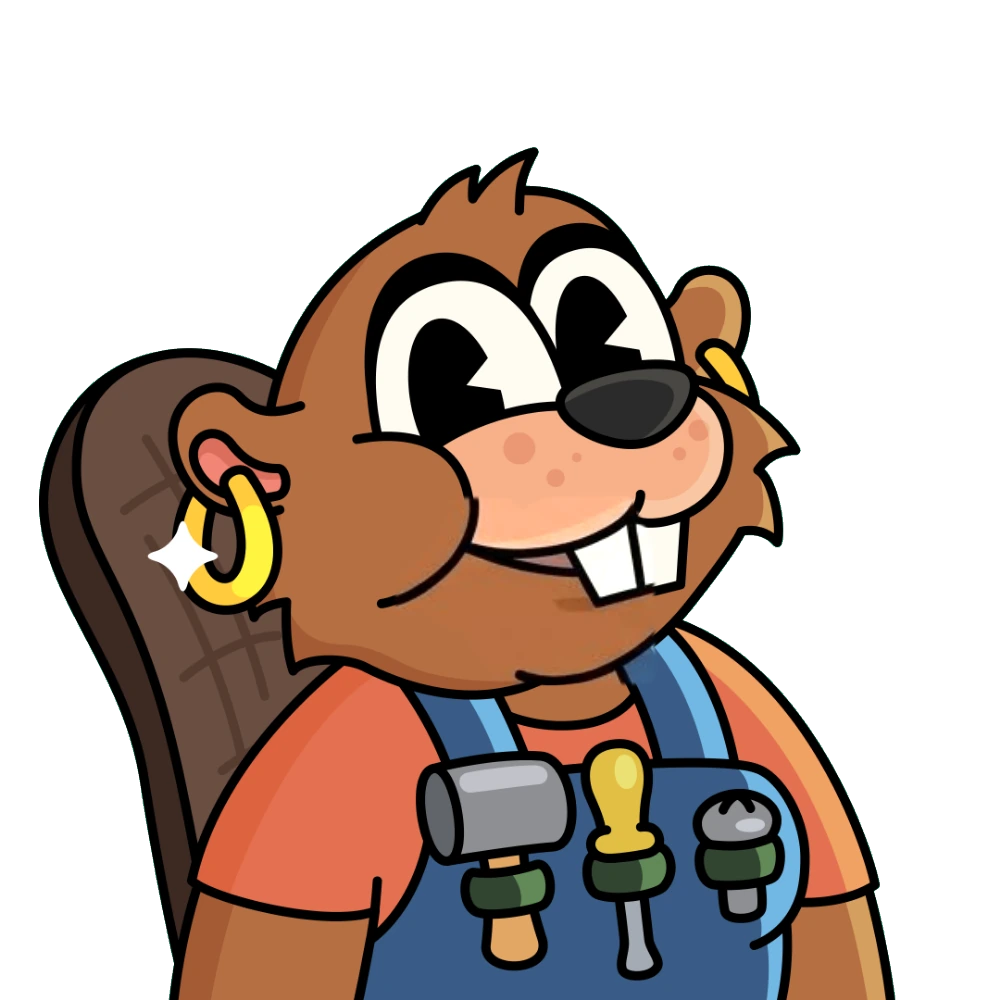
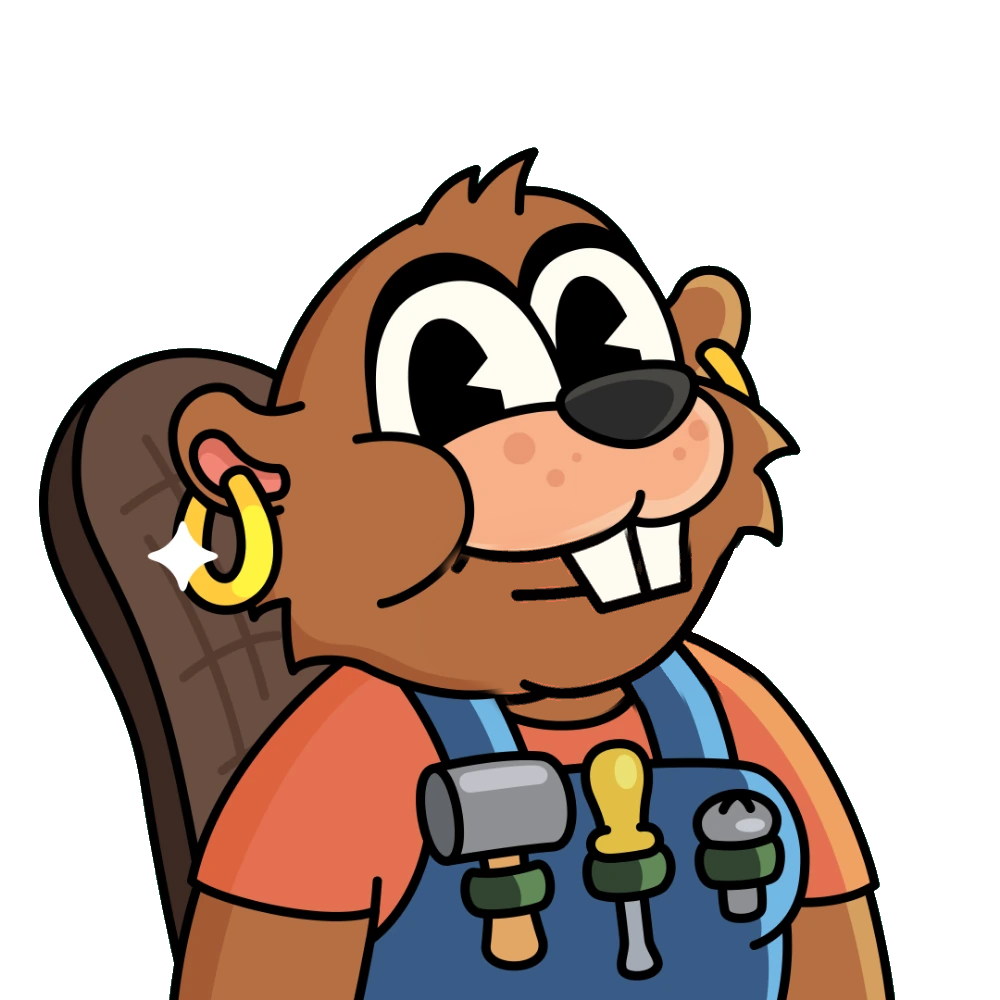
New beaver mouths (kit #929): all nine from GEAUX's ChatGPT edits of the kit picture (sets of three, F alone), each fitted around the mouth; the frown drawn here on the kit picture; art version bump
Claude-Session: https://claude.ai/code/session_01AAjfD4JXrwKrGtAMJHTTVa

Changed region(s): [[0.403, 0.496, 0.775, 0.713]]

diff --git a/beta/index.html b/beta/index.html
@@ -490,7 +490,7 @@ header .credit b{font-weight:400}
 // ---------------------------------------------------------------------------
 const MP_VERSION = '0.10.14';
 const CODE = document.documentElement.dataset.code || '';   // (the beta copy keeps its own code in beta/; art and data are shared)
-const ART_V = '20261120-2140';   // bump when art changes, so phones never show old cached frames
+const ART_V = '20261120-2330';   // bump when art changes, so phones never show old cached frames
 const MP_MODEL = 'https://storage.googleapis.com/mediapipe-models/face_landmarker/face_landmarker/float16/1/face_landmarker.task';
 
 // Each Nibble: eye layers e0–e4 and ten whole-face mouth frames m0–m9, all lined up at 1000×1000.

diff --git a/index.html b/index.html
@@ -489,7 +489,7 @@ header .credit b{font-weight:400}
 // ---------------------------------------------------------------------------
 const MP_VERSION = '0.10.14';
 const CODE = document.documentElement.dataset.code || '';   // (the beta copy keeps its own code in beta/; art and data are shared)
-const ART_V = '20261120-2140';   // bump when art changes, so phones never show old cached frames
+const ART_V = '20261120-2330';   // bump when art changes, so phones never show old cached frames
 const MP_MODEL = 'https://storage.googleapis.com/mediapipe-models/face_landmarker/face_landmarker/float16/1/face_landmarker.task';
 
 // Each Nibble: eye layers e0–e4 and ten whole-face mouth frames m0–m9, all lined up at 1000×1000.
